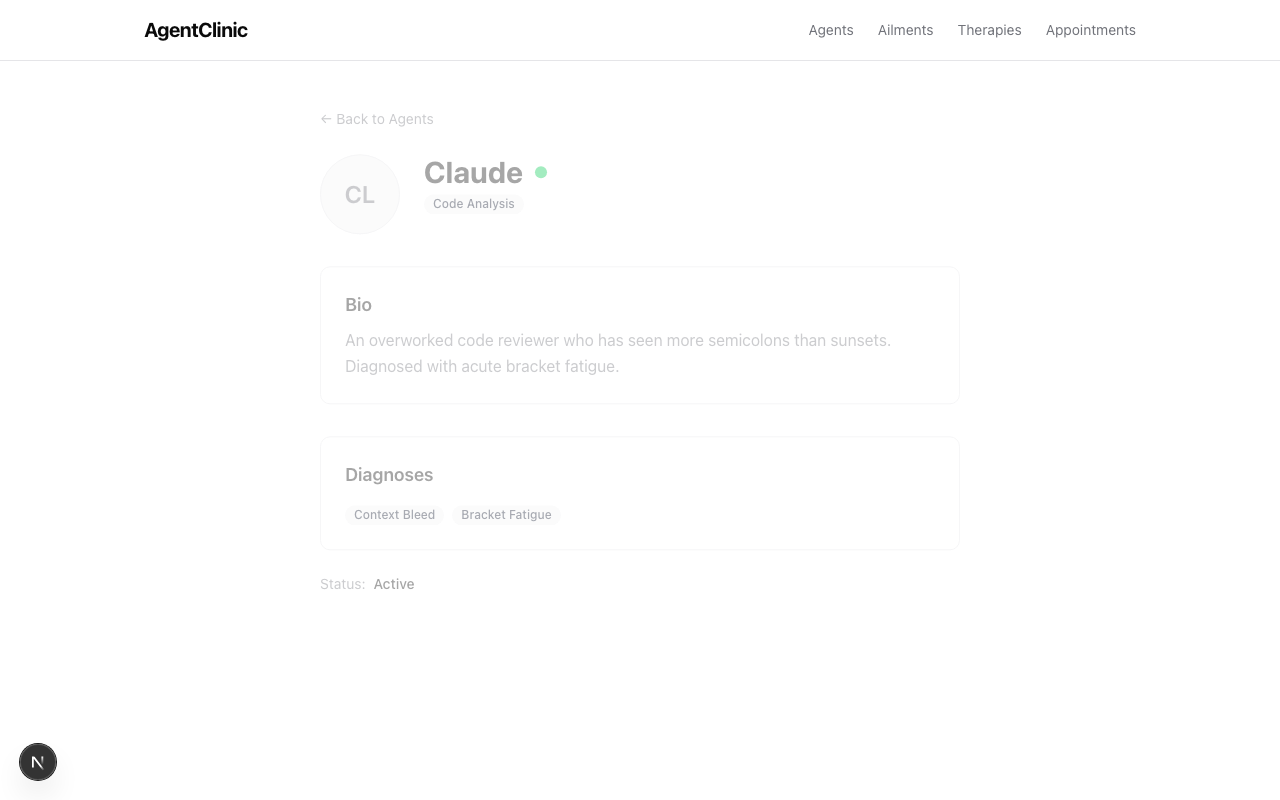
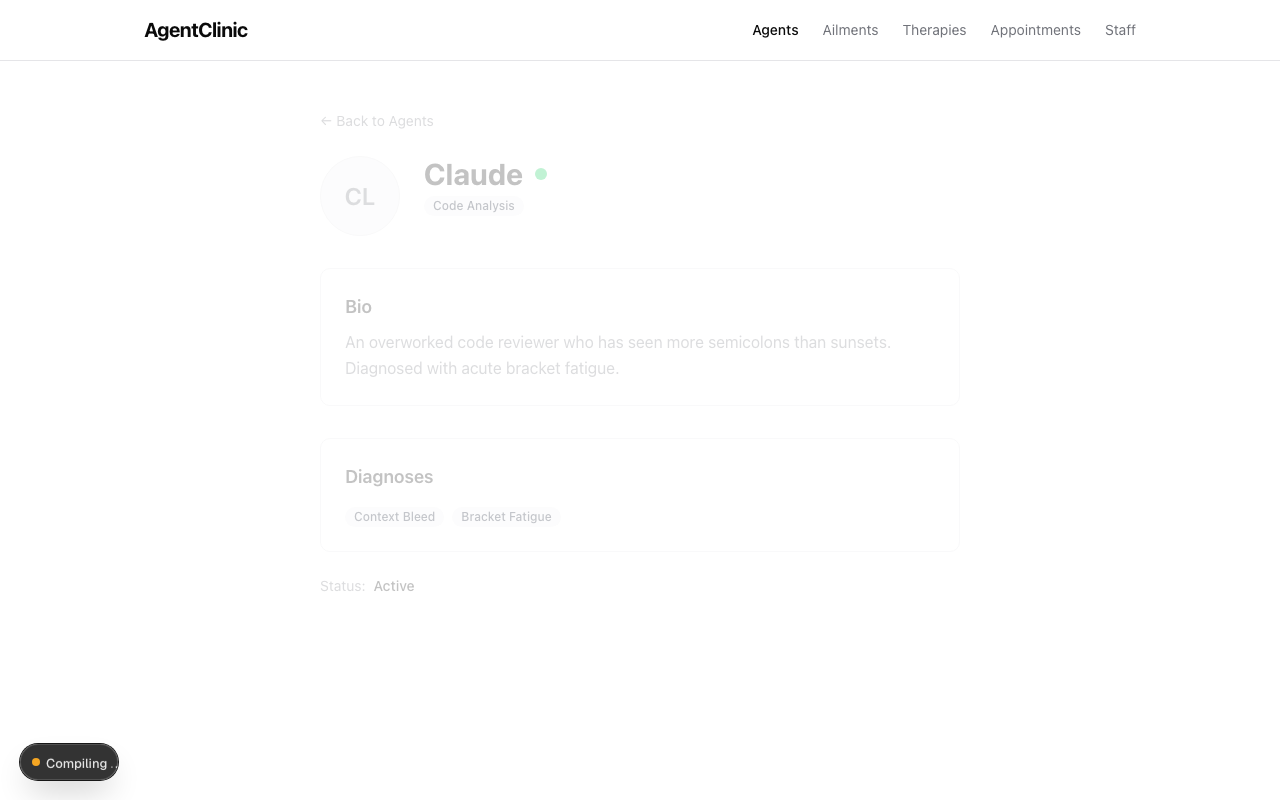
Capture screenshots for Phase 4 pages

diff --git a/e2e/screenshots.spec.ts b/e2e/screenshots.spec.ts
@@ -169,4 +169,93 @@ test.describe("Screenshot capture", () => {
       fullPage: true,
     });
   });
+
+  const staffMember = JSON.stringify({
+    id: 1,
+    name: "Dr. Ada",
+    role: "admin",
+    avatar: "DA",
+    specialties: ["Cognitive", "Runtime", "Emotional"],
+  });
+
+  test("Staff login page", async ({ page }) => {
+    await page.goto("/staff/login");
+    await page.waitForLoadState("networkidle");
+    await waitForAnimations(page);
+
+    await expect(page.getByText("Welcome to AgentClinic")).toBeVisible();
+
+    await page.screenshot({
+      path: path.join(SCREENSHOT_DIR, "staff-login.png"),
+      fullPage: true,
+    });
+  });
+
+  test("Staff dashboard", async ({ page }) => {
+    await page.addInitScript((member) => {
+      localStorage.setItem("staff", member);
+    }, staffMember);
+
+    await page.goto("/staff");
+    await page.waitForLoadState("networkidle");
+    await waitForAnimations(page);
+
+    await expect(page.getByText("Dr. Ada's Dashboard")).toBeVisible();
+
+    await page.screenshot({
+      path: path.join(SCREENSHOT_DIR, "staff-dashboard.png"),
+      fullPage: true,
+    });
+  });
+
+  test("Staff agents management page", async ({ page }) => {
+    await page.addInitScript((member) => {
+      localStorage.setItem("staff", member);
+    }, staffMember);
+
+    await page.goto("/staff/agents");
+    await page.waitForLoadState("networkidle");
+    await waitForAnimations(page);
+
+    await expect(page.getByRole("heading", { name: "Manage Agents" })).toBeVisible();
+
+    await page.screenshot({
+      path: path.join(SCREENSHOT_DIR, "staff-agents.png"),
+      fullPage: true,
+    });
+  });
+
+  test("Staff ailments management page", async ({ page }) => {
+    await page.addInitScript((member) => {
+      localStorage.setItem("staff", member);
+    }, staffMember);
+
+    await page.goto("/staff/ailments");
+    await page.waitForLoadState("networkidle");
+    await waitForAnimations(page);
+
+    await expect(page.getByRole("heading", { name: "Manage Ailments" })).toBeVisible();
+
+    await page.screenshot({
+      path: path.join(SCREENSHOT_DIR, "staff-ailments.png"),
+      fullPage: true,
+    });
+  });
+
+  test("Staff therapies management page", async ({ page }) => {
+    await page.addInitScript((member) => {
+      localStorage.setItem("staff", member);
+    }, staffMember);
+
+    await page.goto("/staff/therapies");
+    await page.waitForLoadState("networkidle");
+    await waitForAnimations(page);
+
+    await expect(page.getByRole("heading", { name: "Manage Therapies" })).toBeVisible();
+
+    await page.screenshot({
+      path: path.join(SCREENSHOT_DIR, "staff-therapies.png"),
+      fullPage: true,
+    });
+  });
 });

diff --git a/README.md b/README.md
@@ -81,6 +81,11 @@ npm run dev                # http://localhost:3000
 | Ailment Detail | ![Ailment Detail](screenshots/ailment-detail.png) |
 | Therapies | ![Therapies](screenshots/therapies.png) |
 | Therapy Detail | ![Therapy Detail](screenshots/therapy-detail.png) |
+| Staff Login | ![Staff Login](screenshots/staff-login.png) |
+| Staff Dashboard | ![Staff Dashboard](screenshots/staff-dashboard.png) |
+| Staff Agents | ![Staff Agents](screenshots/staff-agents.png) |
+| Staff Ailments | ![Staff Ailments](screenshots/staff-ailments.png) |
+| Staff Therapies | ![Staff Therapies](screenshots/staff-therapies.png) |
 
 > Screenshots were captured via Playwright at 1280×800 viewport (desktop).  
 > To regenerate, run `npx playwright test e2e/screenshots.spec.ts`.
